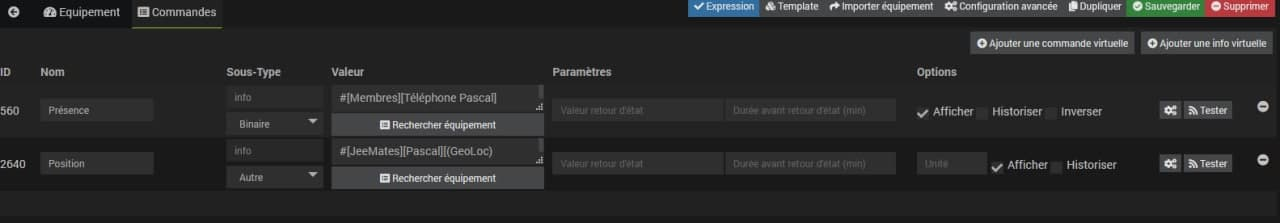
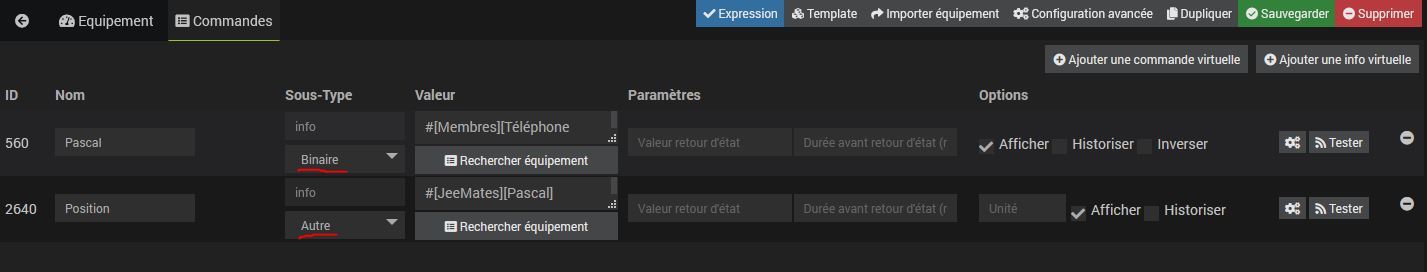
Mise à jour doc JeeMate - Geoloc présence

diff --git a/JeeMate/fr_FR/index.md b/JeeMate/fr_FR/index.md
@@ -578,36 +578,42 @@ Pour ceci, nous avons décidé de ne pas faire cette configuration dans le plugi
 
 La procédure à suivre est simple, et nécessite **un équipement Virtuel par membre**.
 
-![Vue virtuel presence](../images/virtuel_presence.jpg)
-
 Dans cet équipement, créer 2 commandes infos comme sur la capture ci-dessus
 
-- Présence : que vous pouvez lier à n'importe quel autre info provenant d'un autre plugin, ou à une info de géofence d'un équipement JeeMate.
-Cette info doit être de **type Binaire**, avec le type générique **Info Générique**
-Puis cliquer sur la roue crantée de la commande pour aller dans sa page de configuration, et dans l'onglet Display ajouter la clé/valeur **jeematePresence** et le nom de l'utilisateur qui sera affiché dans l'application mobile.
+- Nom utilisateur / Présence : que vous pouvez lier à n'importe quel autre info provenant d'un autre plugin, ou par exemple à une commande info de géofence de l'équipement JeeMate.
+Cette info doit être de **type Binaire**
 
-![Vue presence generique](../images/virtuel_presence_generique.jpg)
+- Position : que vous pouvez lier à n'importe quel autre info géoloc, ou par exemple à la commande info de géoloc d'un équipement JeeMate.
+Cette info doit être de **type Autre**.
+Cocher "Historiser" cette commande si vous souhaitez obtenir le tracé dans l'application mobile.
+
+![Vue virtuel presence](../images/virtuel_presence.jpg)
+
+Ensuite, se rendre dans le plugin JeeMate, dans la section de Configuration Générale
 
 ![Vue presence1](../images/virtuel_presence_display1.jpg)
 
-- Position : que vous pouvez lier à n'importe quel autre info géoloc, ou à l'info de géoloc d'un équipement JeeMate.
-Cette info doit être de **type Autre**, avec le type générique **Info Générique**
-Puis cliquer sur la roue crantée de la commande pour aller dans sa page de configuration, et dans l'onglet Display ajouter la clé **jeemateGeoloc**.
-- Historiser cette commande info de géoloc si vous souhaitez obtenir le tracé dans l'application mobile.
+Puis dans l'onglet Equipement, cliquer sur la roue crantée verte pour l'équipement virtuel qui a été créé.
 
 ![Vue presence generique](../images/virtuel_presence_generique.jpg)
 
+Et renseigner les types génériques comme ci-dessous,
+- Occupation
+- Géoloc
+  
 ![Vue presence2](../images/virtuel_presence_display2.jpg)
+
+Cliquer sur Sauvegarder.
 
 **Note** : si un utilisateur ne souhaite pas être suivi, alors il suffit d'enlever le type générique pour la commande Position dans l'équipement Virtuel. Dans ce cas, seule sa présence ou non, sera indiqué dans l'application mobile.
 
-**Important** : lorsque vous effectuez un changement dans la configuration d'un équipement Jeedom, alors il faut réimporter/regénérer l'interface dans l'application mobile.
+**Important** : lorsque vous effectuez un changement dans la configuration d'un équipement Jeedom, alors il faut ensuite synchroniser l'application mobile en allant dans le menu Configuration/Jeedom/Regénérer l'interface..
 
-Pour afficher la présence d'un utilisateur, dans l'onglet Favori, dans la barre de résumés, cliquer sur la première icöne, une liste des utilisateurs sera alors affichée. Cliquer sur un utilisateur dans la liste, et sera alors affichée la carte avec sa position, son tracé, la position des autres utilisateurs, ainsi que les différentes zones.
+Pour afficher la présence d'un utilisateur, dans l'onglet Favori, depuis la barre de résumés, cliquer sur la première icöne, une liste des utilisateurs sera alors affichée. Cliquer sur un utilisateur dans la liste, et sera alors affichée la carte avec sa position, son tracé, la position des autres utilisateurs, ainsi que les différentes zones.
 
 Exemple de carte avec tracé : 
 
-![trace](../images/trace.jpg)
+![trace](../images/trace.jpg  | height=100)
 
 ## Connecteur Jeedom <a name="paragraphe9-3"></a>
 
